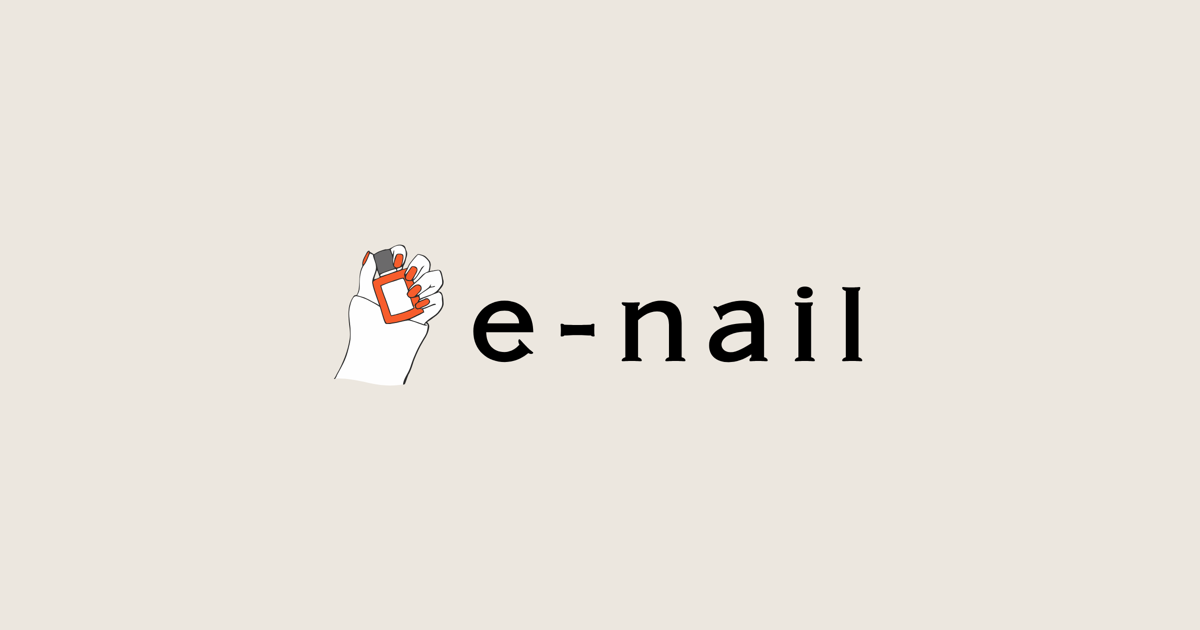
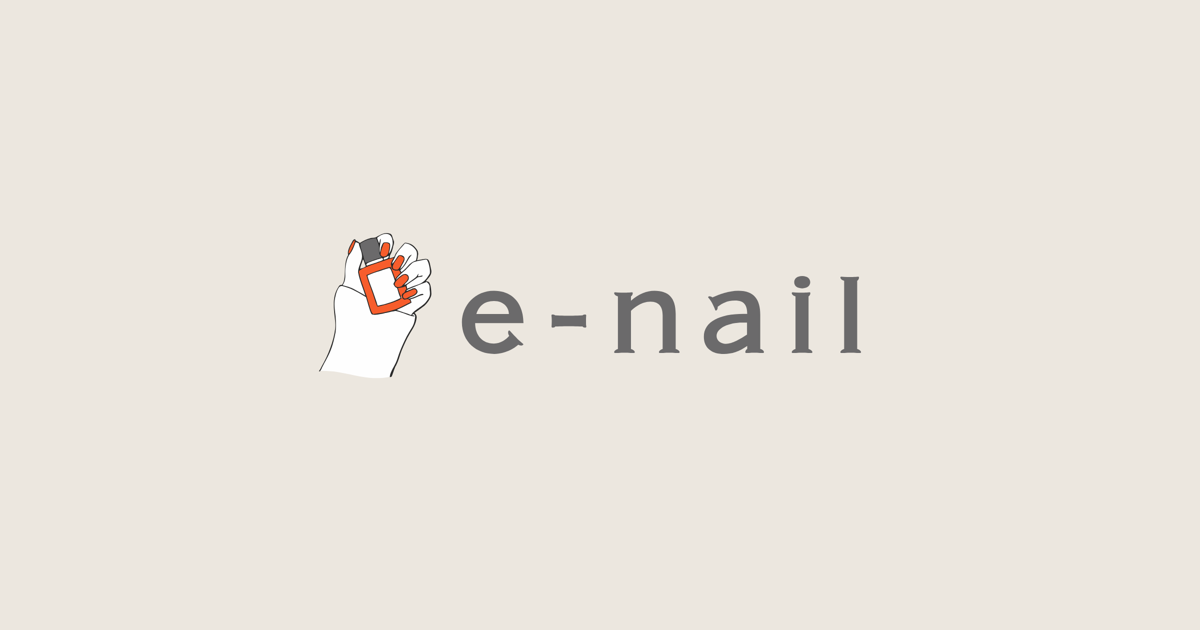
ロゴを新バージョン(グレーのワードマーク)に差し替え＆OGP再生成
- img/logo.svg 差し替え（wordmark #6B6A6B）、img/ogp.png 再生成
- ロゴ画像とog:imageのURLにfilemtimeバージョンを付与しキャッシュ回避

Changed region(s): [[0.2467, 0.3619, 0.74, 0.6333]]

diff --git a/header.php b/header.php
@@ -12,7 +12,7 @@
     <meta property="og:title" content="e-nail" />
     <meta property="og:description" content="福岡天神薬院にある完全予約制のプライベートネイルサロンです。" />
     <meta property="og:site_name" content="e-nail" />
-    <meta property="og:image" content="https://e-nail-fukuoka.com/wp-content/themes/e-nail/img/ogp.png" />
+    <meta property="og:image" content="https://e-nail-fukuoka.com/wp-content/themes/e-nail/img/ogp.png?v=<?php echo filemtime(get_template_directory() . '/img/ogp.png'); ?>" />
     <meta property="og:image:width" content="1200" />
     <meta property="og:image:height" content="630" />
 
@@ -71,7 +71,7 @@
     <header class="ly_header">
         <div class="ly_header_inner">
             <div class="bl_headerLogo">
-                <a href="#"><img src="<?php bloginfo('template_url');?>/img/logo.svg" alt="e-nail"
+                <a href="#"><img src="<?php bloginfo('template_url');?>/img/logo.svg?v=<?php echo filemtime(get_template_directory() . '/img/logo.svg'); ?>" alt="e-nail"
                         class="bl_headerLogo_img" /></a>
             </div>
             <nav class="bl_headerNav">

diff --git a/footer.php b/footer.php
@@ -1,7 +1,7 @@
 <!-- FOOTER -->
 <footer class="ly_footer">
     <a href="<?php bloginfo('template_url');?>" class="bl_footerLogo"><img
-            src="<?php bloginfo('template_url');?>/img/logo.svg" alt="e-nail" class="bl_footerLogo_img" border="0" /></a>
+            src="<?php bloginfo('template_url');?>/img/logo.svg?v=<?php echo filemtime(get_template_directory() . '/img/logo.svg'); ?>" alt="e-nail" class="bl_footerLogo_img" border="0" /></a>
     <br />
     <p>©e-nail, All Rights Reserved.</p>
     <a href="https://ss-design1104.com/" target="_blank" rel="noopener noreferrer" class="bl_production">